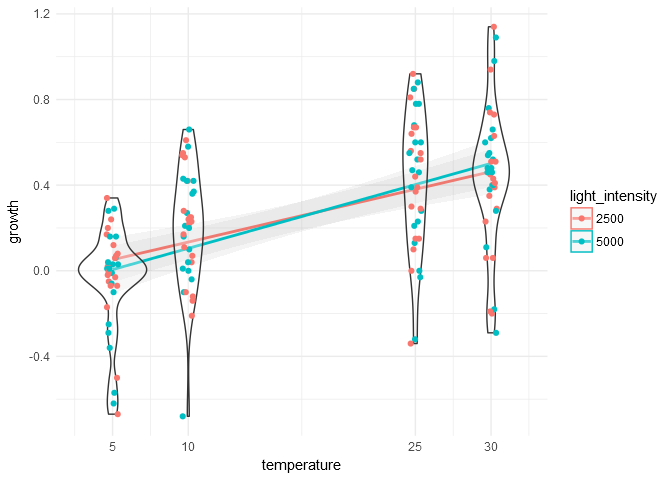
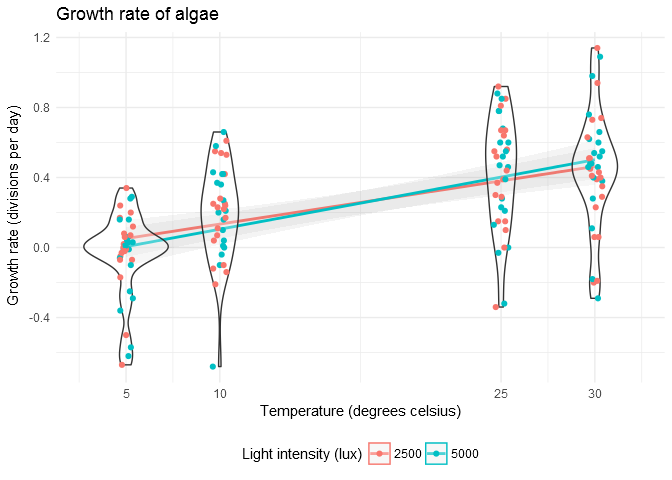
Updating legends and titles

diff --git a/algae/algae.md b/algae/algae.md
@@ -145,8 +145,13 @@ ggplot(data_long, aes(x = temperature, y = growth, color = light_intensity)) +
   geom_smooth(method = "lm", alpha = 0.1) +
   geom_point() +
   scale_x_continuous(breaks = c(5, 10, 25, 30)) +
-  facet_wrap(~ species) +
-  theme_minimal()
+  facet_wrap(~ species, ncol = 4) +
+  theme_minimal() +
+  theme(legend.position = "bottom") +
+  labs(title = "Growth rate of algae by species",
+       x = "Temperature (degrees celsius)",
+       y = "Growth rate (divisions per day)",
+       color = "Light intensity (lux)")
 ```
 
     ## Warning: Removed 1 rows containing non-finite values (stat_smooth).
@@ -163,7 +168,12 @@ ggplot(data_long, aes(x = temperature, y = growth, color = light_intensity)) +
   geom_violin(aes(group = temperature), alpha = 0.3) +
   geom_jitter(width = 0.4, height = 0) +
   scale_x_continuous(breaks = c(5, 10, 25, 30)) +
-  theme_minimal()
+  theme_minimal() +
+  theme(legend.position = "bottom") +
+  labs(title = "Growth rate of algae",
+       x = "Temperature (degrees celsius)",
+       y = "Growth rate (divisions per day)",
+       color = "Light intensity (lux)")
 ```
 
     ## Warning: Removed 1 rows containing non-finite values (stat_smooth).
